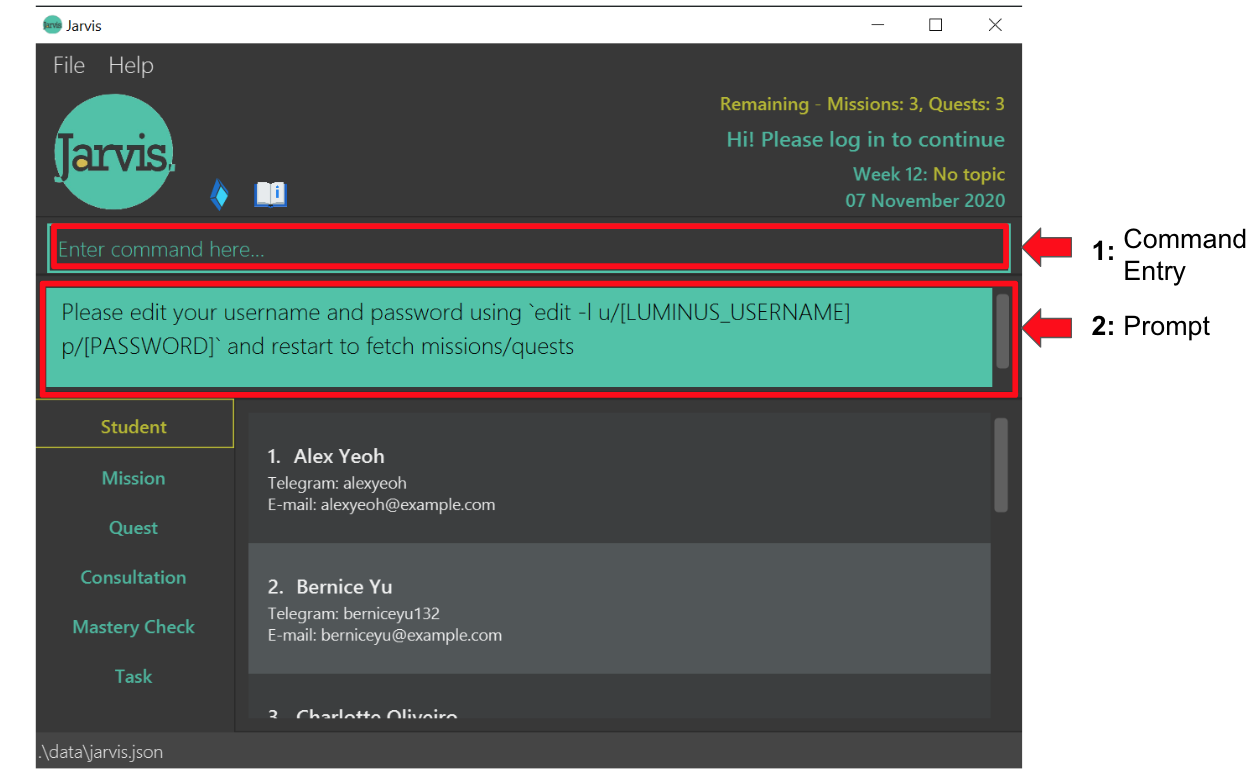
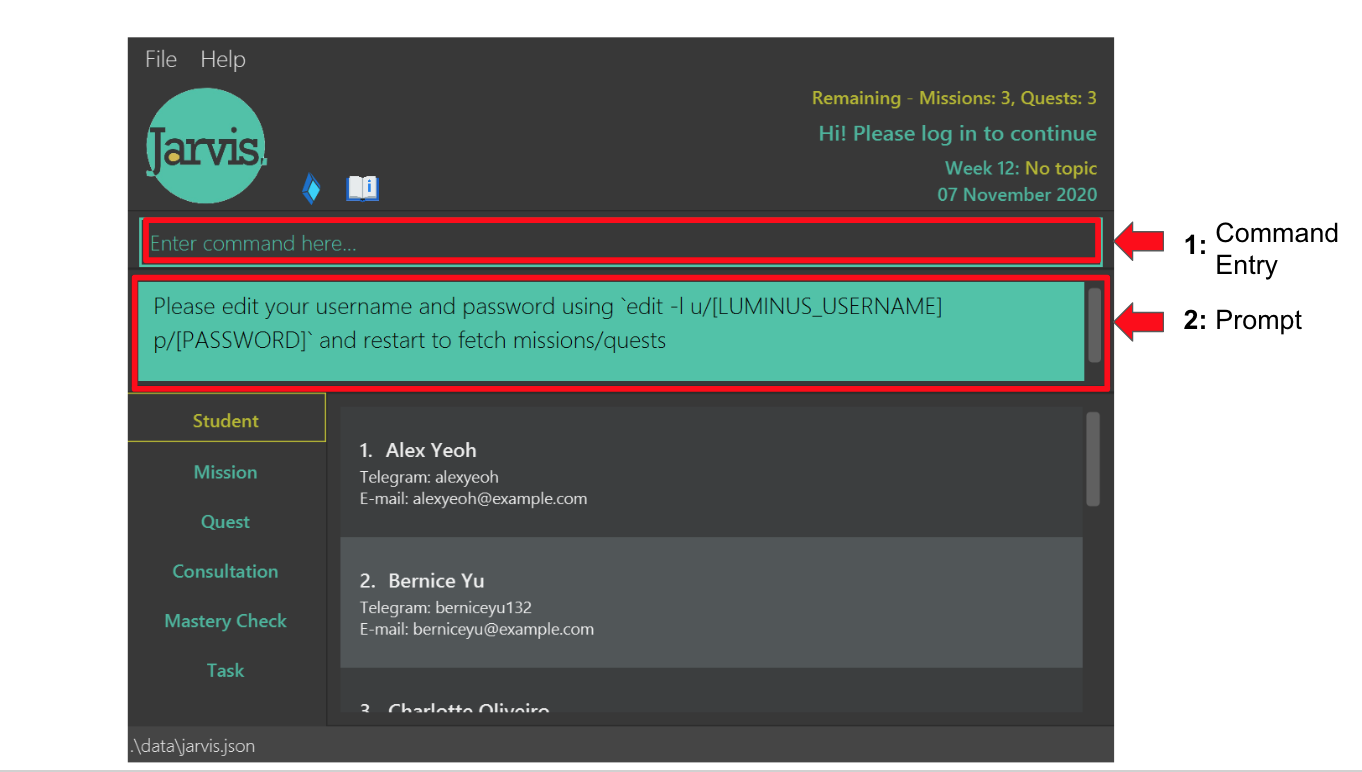
Update ss

Changed region(s): [[0.0, 0.0, 1.0, 1.0], [0.2174, 0.9016, 0.4037, 0.9326], [0.1553, 0.6528, 0.1863, 0.6839]]

diff --git a/docs/UserGuide.md b/docs/UserGuide.md
@@ -239,8 +239,15 @@ An example of the command being inputted:
 
 ![LoginUsernamePasswordInput](images/userguide/editLoginDetails.png)
 
-Within the green rectangle box, Jarvis will notify you if the login was successful. Upon success, all information from
-Source Academy will be visible to you.
+### 5.3 Updated Details Summary
+Within the red rectangle box, Jarvis will notify you if the login was successful and the login information entered. 
+The username and password are covered with a red rectangle for this diagram only to protect the Avenger's account security.
+You will be able to see the login details you entered.
+
+### 5.4 Updated Student Information
+Upon success, all information from Source Academy will be visible to you. The student information tab will display you student information.
+The `Telegram` and `E-mail` fields are test values as these information are not available on Source Academy.
+You will have to edit them using the [Editing Student Information](#642-editing-student-information---s) command below.
 
 --------------------------------------------------------------------------------------------------------------------
 

diff --git a/docs/AboutUs.md b/docs/AboutUs.md
@@ -18,7 +18,7 @@ You can reach us at the email `seer[at]comp.nus.edu.sg`
 <img src="images/peironggg.png" width="200px">
 
 [[github](http://github.com/peironggg)]
-[[portfolio](team/peironggg.md)]
+[[portfolio](team/[CS2103T-W11-2][WU PEIRONG]PPP.pdf.md)]
 
 * Role: Developer
 * Responsibilities: API + Student Features
